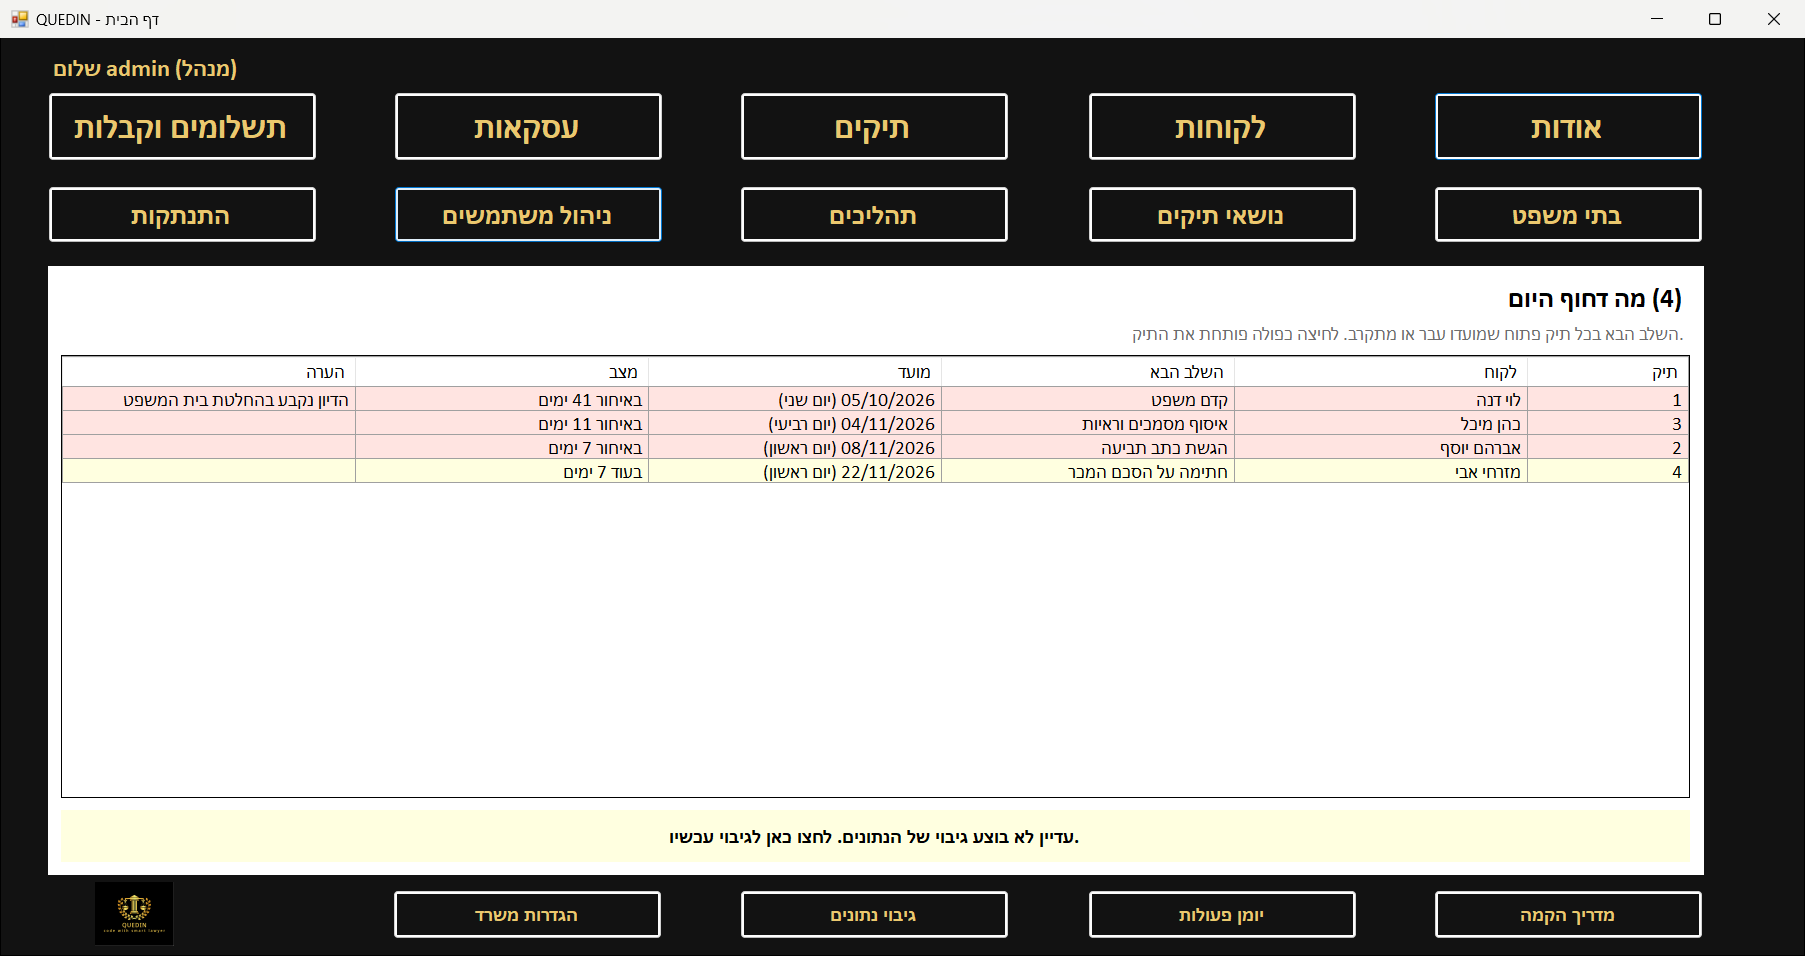
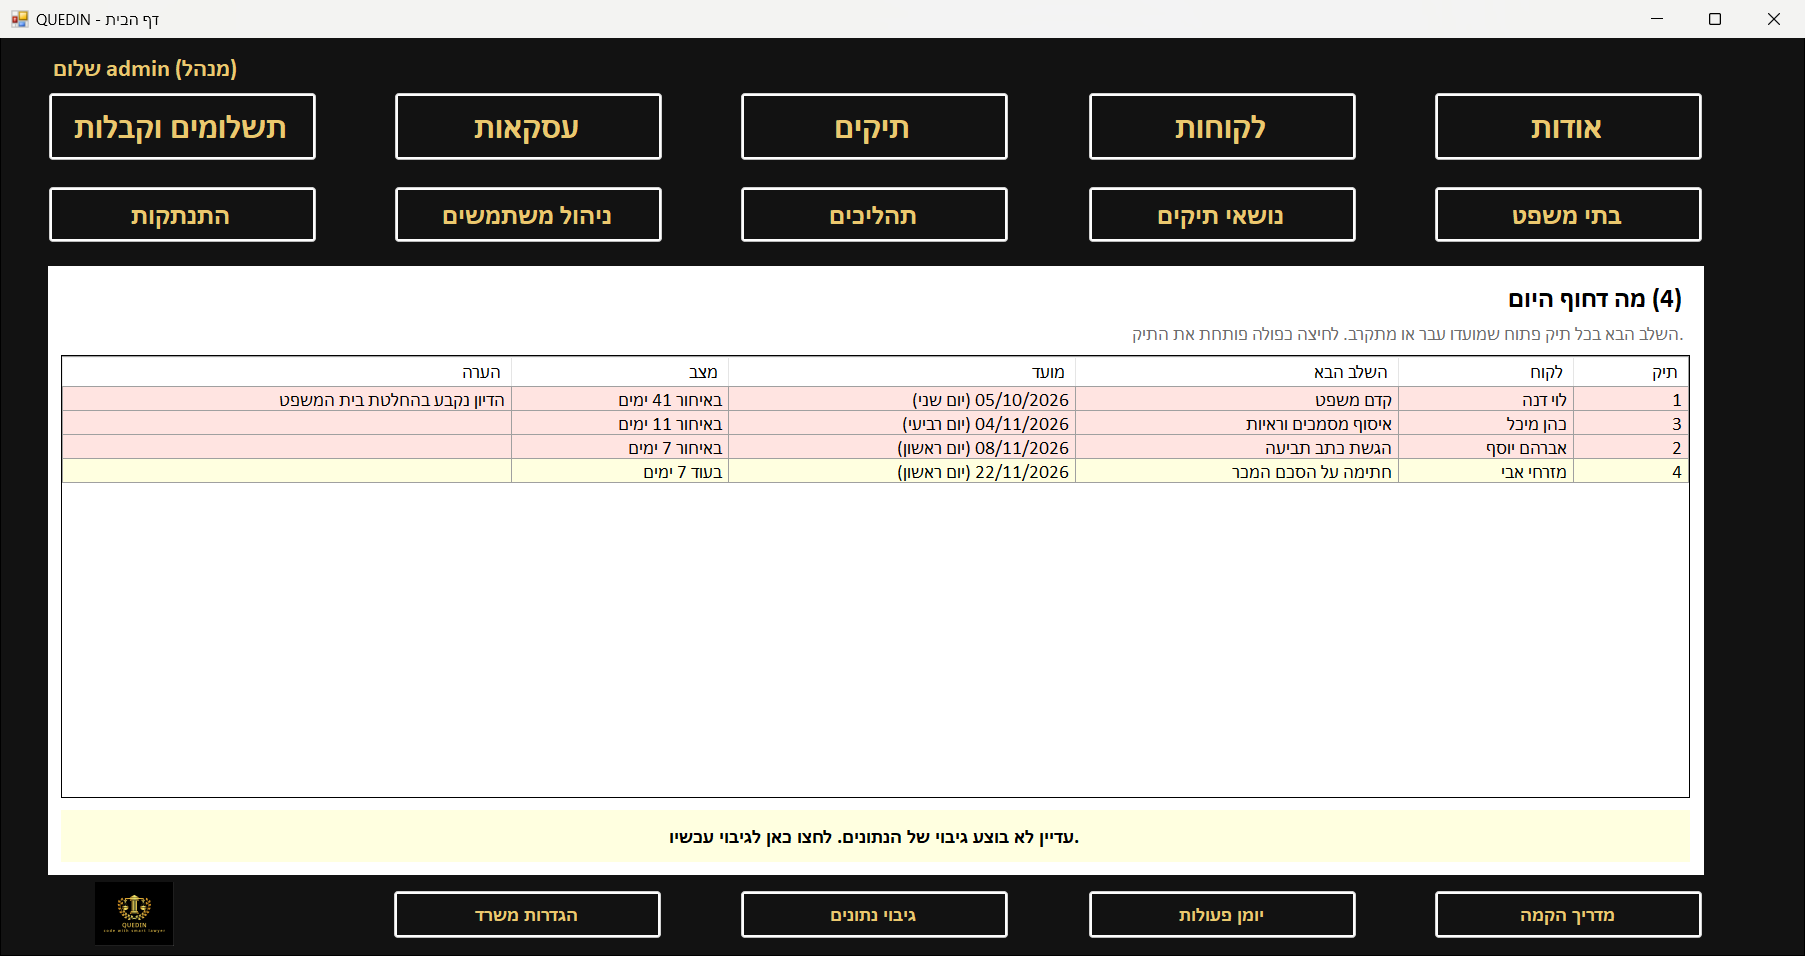
README: final screenshots (case payments and customers added)
Claude-Session: https://claude.ai/code/session_0185zfKn6bbj9kBqDaHNthZs

diff --git a/README.md b/README.md
@@ -38,9 +38,13 @@ The app is in Hebrew (right-to-left). All names, IDs and amounts are fictional d
 |---|---|---|
 | ![Home screen](docs/screenshots/home.png) | ![Case screen](docs/screenshots/case.png) | ![Receipt](docs/screenshots/receipt.png) |
 
-| All cases, late and due-soon highlighted | Payments and receipts |
-|---|---|
-| ![Cases list](docs/screenshots/cases.png) | ![Payments list](docs/screenshots/payments.png) |
+| All cases, late and due-soon highlighted | A case's payments | Payments and receipts |
+|---|---|---|
+| ![Cases list](docs/screenshots/cases.png) | ![Case payments](docs/screenshots/case-payments.png) | ![Payments list](docs/screenshots/payments.png) |
+
+| Customers and other parties |
+|---|
+| ![Customers list](docs/screenshots/customers.png) |
 
 ## 🔎 Where to look in the code
 
